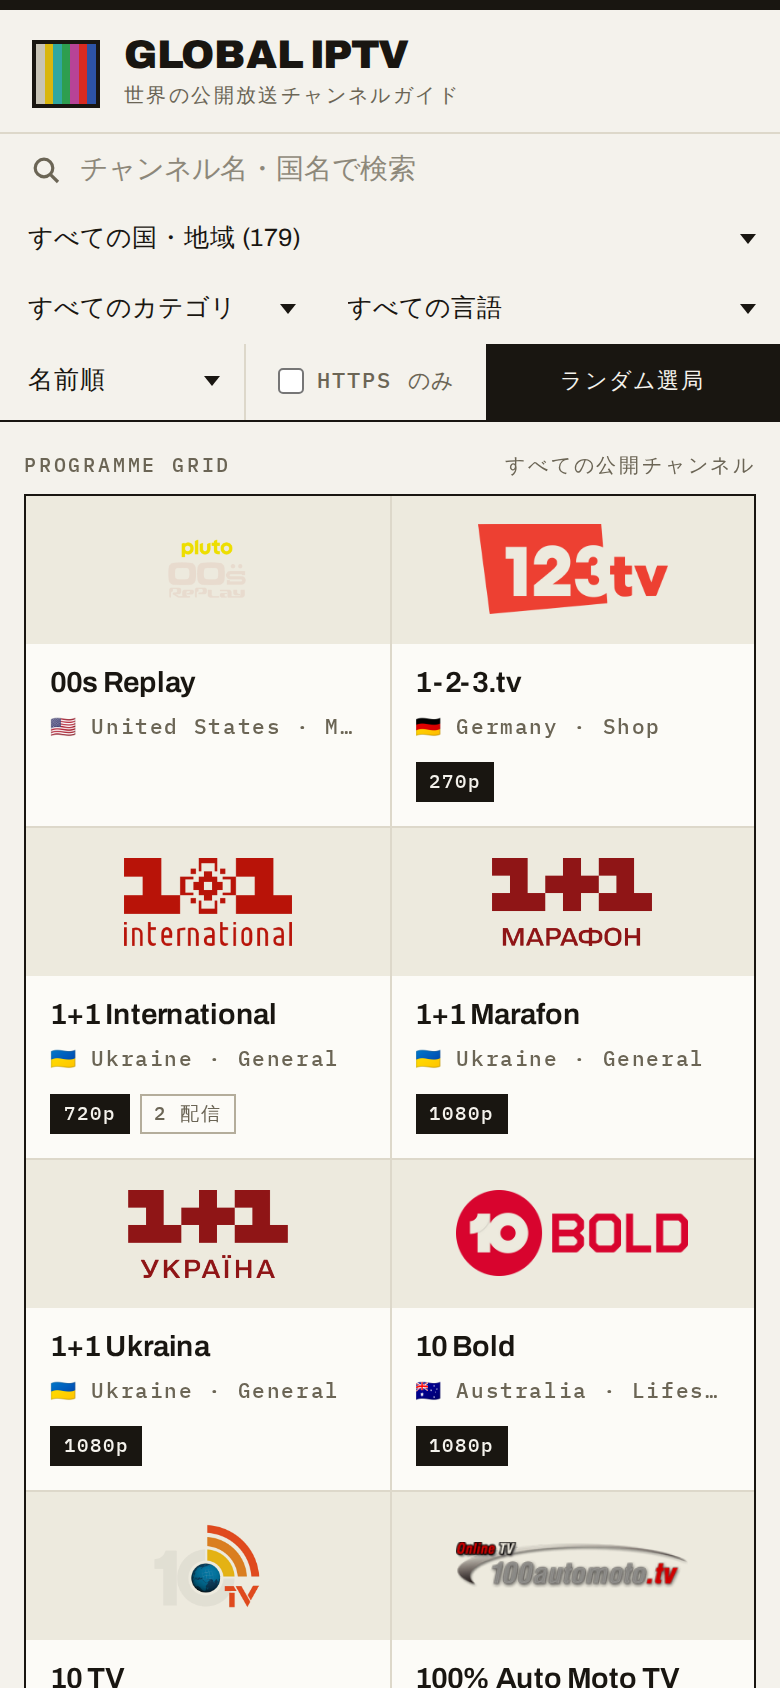
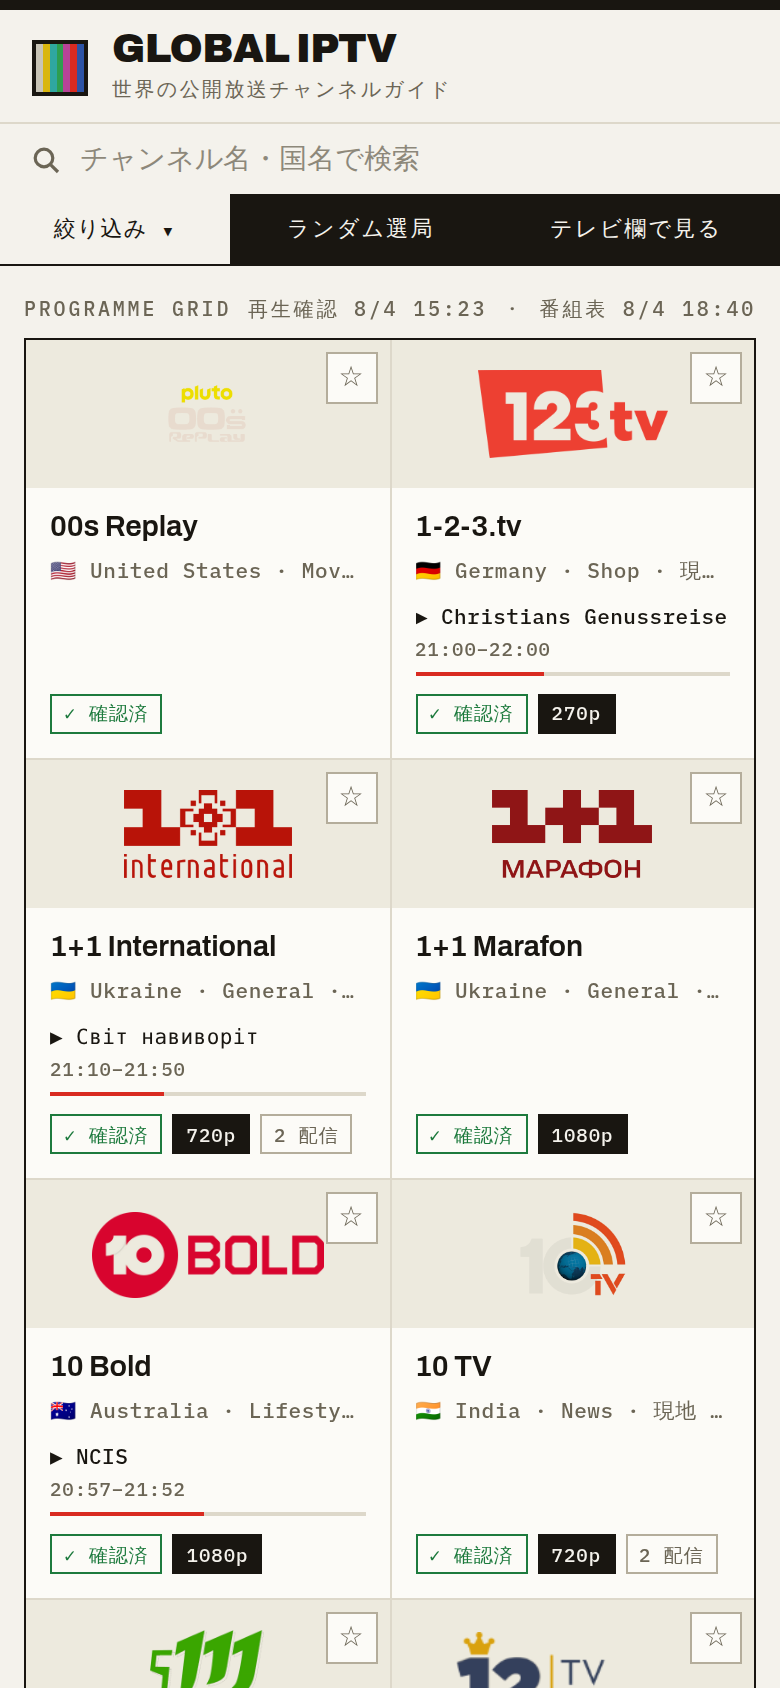
Retake the README screenshots against the current UI
The three screenshots dated from the editorial redesign and predated the
番組表 (EPG), お気に入り, 現地時刻 and 再生確認済み badges, so the README
showed an app that no longer exists. Retake them from live data, at
1512x900 where the toolbar no longer clips the search placeholder, and
add a fourth shot of the テレビ欄 (timeline) view.

The player shot now shows a channel actually playing — Chrome (not the
bundled Chromium) is needed for that, since IPTV is overwhelmingly
H.264/AAC — together with the programme panel, the source switcher and
the official-site link.

Add scripts/capture-screenshots.mjs so the set can be regenerated instead
of hand-cropped, and correct the channel counts the new images contradict
(iptv-org now publishes ~41,000 channels, not ~10,000; EPG covers ~950).

Claude-Session: https://claude.ai/code/session_01YBi5i8PQFCuBFfiUqQAoS1

diff --git a/README.md b/README.md
@@ -1,6 +1,6 @@
 # Global IPTV — 世界の放送をブラウザで
 
-[iptv-org/iptv](https://github.com/iptv-org/iptv) が公開している全世界の IPTV チャンネル(約 1 万局)をブラウザからストリーミング再生できる静的 Web ページです。ビルド不要・サーバサイド不要で、GitHub Pages などの静的ホスティングにそのまま配置できます。
+[iptv-org/iptv](https://github.com/iptv-org/iptv) が公開している全世界の IPTV チャンネル(約 4 万局)をブラウザからストリーミング再生できる静的 Web ページです。ビルド不要・サーバサイド不要で、GitHub Pages などの静的ホスティングにそのまま配置できます。
 
 ![スクリーンショット](docs/screenshot.png)
 
@@ -22,18 +22,25 @@
 |---|---|
 | ![プレイヤー](docs/screenshot-player.png) | ![モバイル](docs/screenshot-mobile.png) |
 
+「テレビ欄で見る」に切り替えると、番組表のある局を時間軸に並べたタイムライン表示になります。
+
+![テレビ欄](docs/screenshot-timeline.png)
+
+> スクリーンショットは実データで撮り直せます(ローカルサーバを起動した状態で
+> `node scripts/capture-screenshots.mjs`。詳細はスクリプト冒頭のコメント参照)。
+
 ## 機能
 
-- **全世界のチャンネル一覧** — [iptv-org API](https://github.com/iptv-org/api) からチャンネル・ストリーム・ロゴ・国・カテゴリ・言語データを取得して結合(約 1 万 2 千エントリ)
+- **全世界のチャンネル一覧** — [iptv-org API](https://github.com/iptv-org/api) からチャンネル・ストリーム・ロゴ・国・カテゴリ・言語データを取得して結合(約 4 万 3 千エントリ)
 - **検索・絞り込み** — チャンネル名(別名・ネットワーク名を含む)のテキスト検索、国・カテゴリ・言語・HTTPS 配信のみでの絞り込み、名前順 / 国順ソート
-- **番組表(EPG)** — 公式グラバー [iptv-org/epg](https://github.com/iptv-org/epg) を CI で毎日実行し、再生確認済みチャンネル約 1,400 局の「現在の番組 + 進捗バー」を一覧に、番組詳細と「この後の番組」をプレイヤーに表示。「番組表ありのみ」フィルタ付き
+- **番組表(EPG)** — 公式グラバー [iptv-org/epg](https://github.com/iptv-org/epg) を CI で毎日実行し、再生確認済みチャンネル約 950 局の「現在の番組 + 進捗バー」を一覧に、番組詳細と「この後の番組」をプレイヤーに表示。「番組表ありのみ」フィルタと、時間軸に並べた「テレビ欄」表示付き
 - **ストリーミング再生** — [hls.js](https://github.com/video-dev/hls.js) による HLS 再生(Safari はネイティブ HLS にフォールバック)。DASH (.mpd) は dash.js を遅延読み込み、.mp4 / .webm はプログレッシブ再生
 - **自動フォールバック** — 複数ソースを持つチャンネルは、失敗時に次のソースを自動で試行
 - **エラー時の代替手段** — 全ソース失敗時はストリーム URL のコピー / .m3u ダウンロード(VLC などで再生)を提示
 - **公式サイトへの導線** — `channels.json` に `website` を持つチャンネル(全体の約 7 割)は、
   プレイヤーに「公式サイトを開く」リンクを常設。ABEMA のようにトークン認証・地域制限のため
   公開ストリーム URL が存在せず「配信なし」となるチャンネルでも、公式サイトへ辿り着ける
-- **1 万件超への対応** — 60 件ずつの遅延描画(IntersectionObserver)+ ロゴの遅延読み込み
+- **4 万件超への対応** — 60 件ずつの遅延描画(IntersectionObserver)+ ロゴの遅延読み込み
 - **ディープリンク** — `#play=<チャンネルID>` で特定チャンネルを直接開ける
 - **NSFW 除外** — `is_nsfw` フラグ付きチャンネルは常に除外(データソース自体もブロックリスト適用済み)
 
